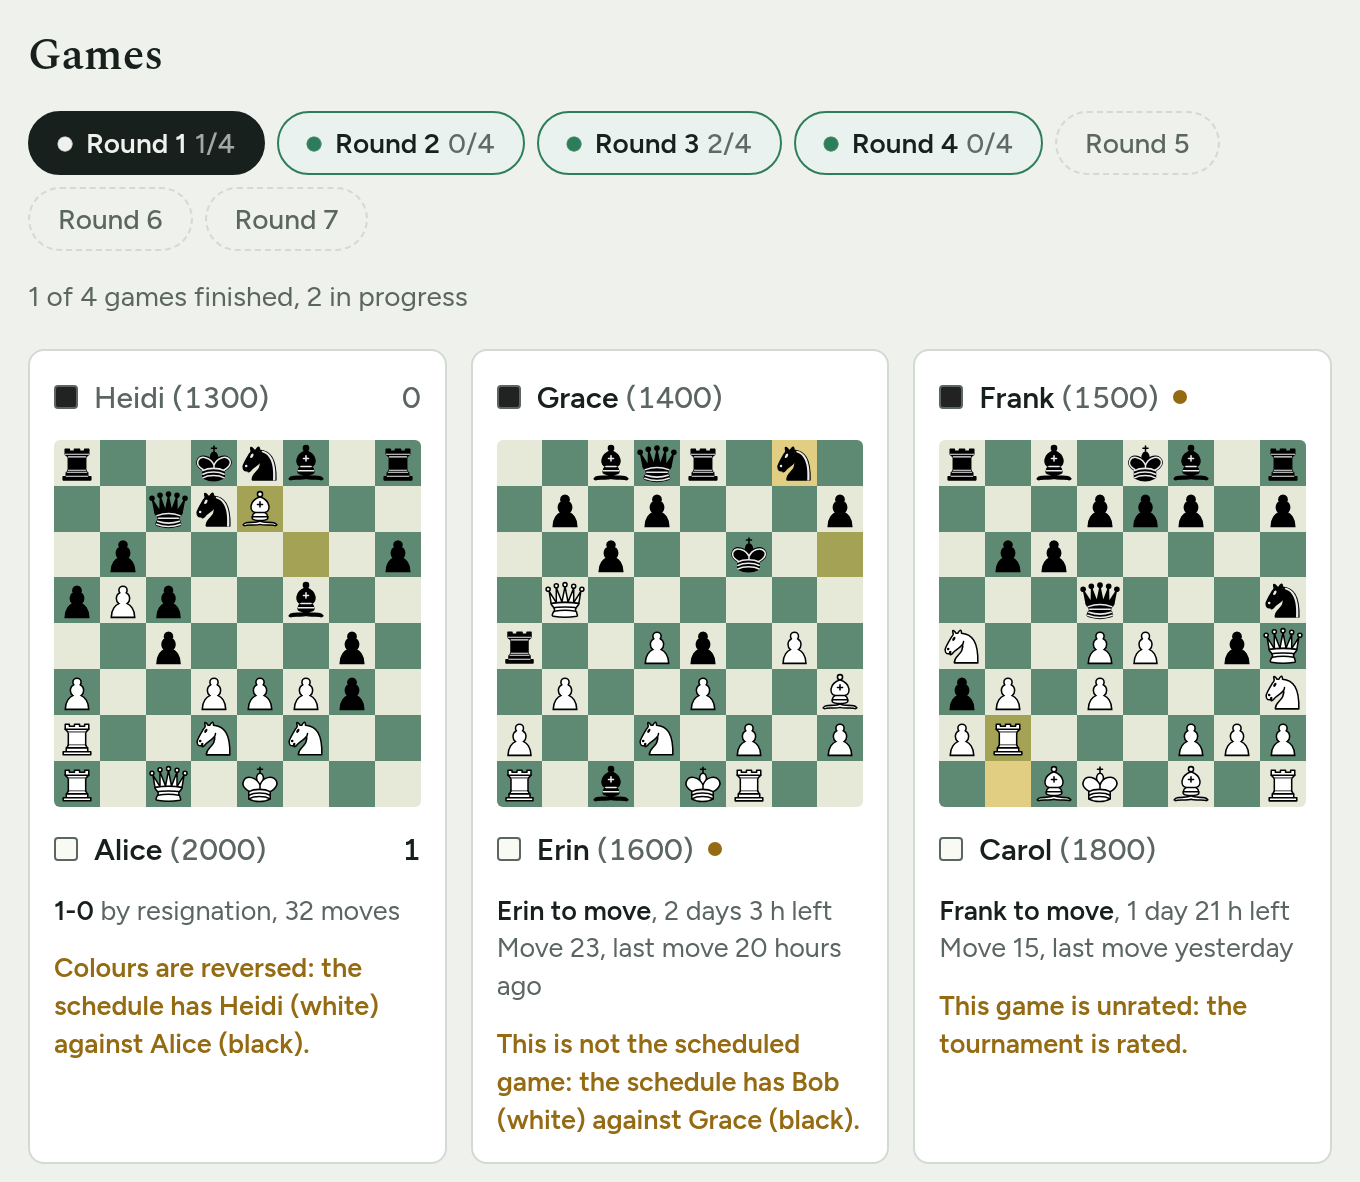
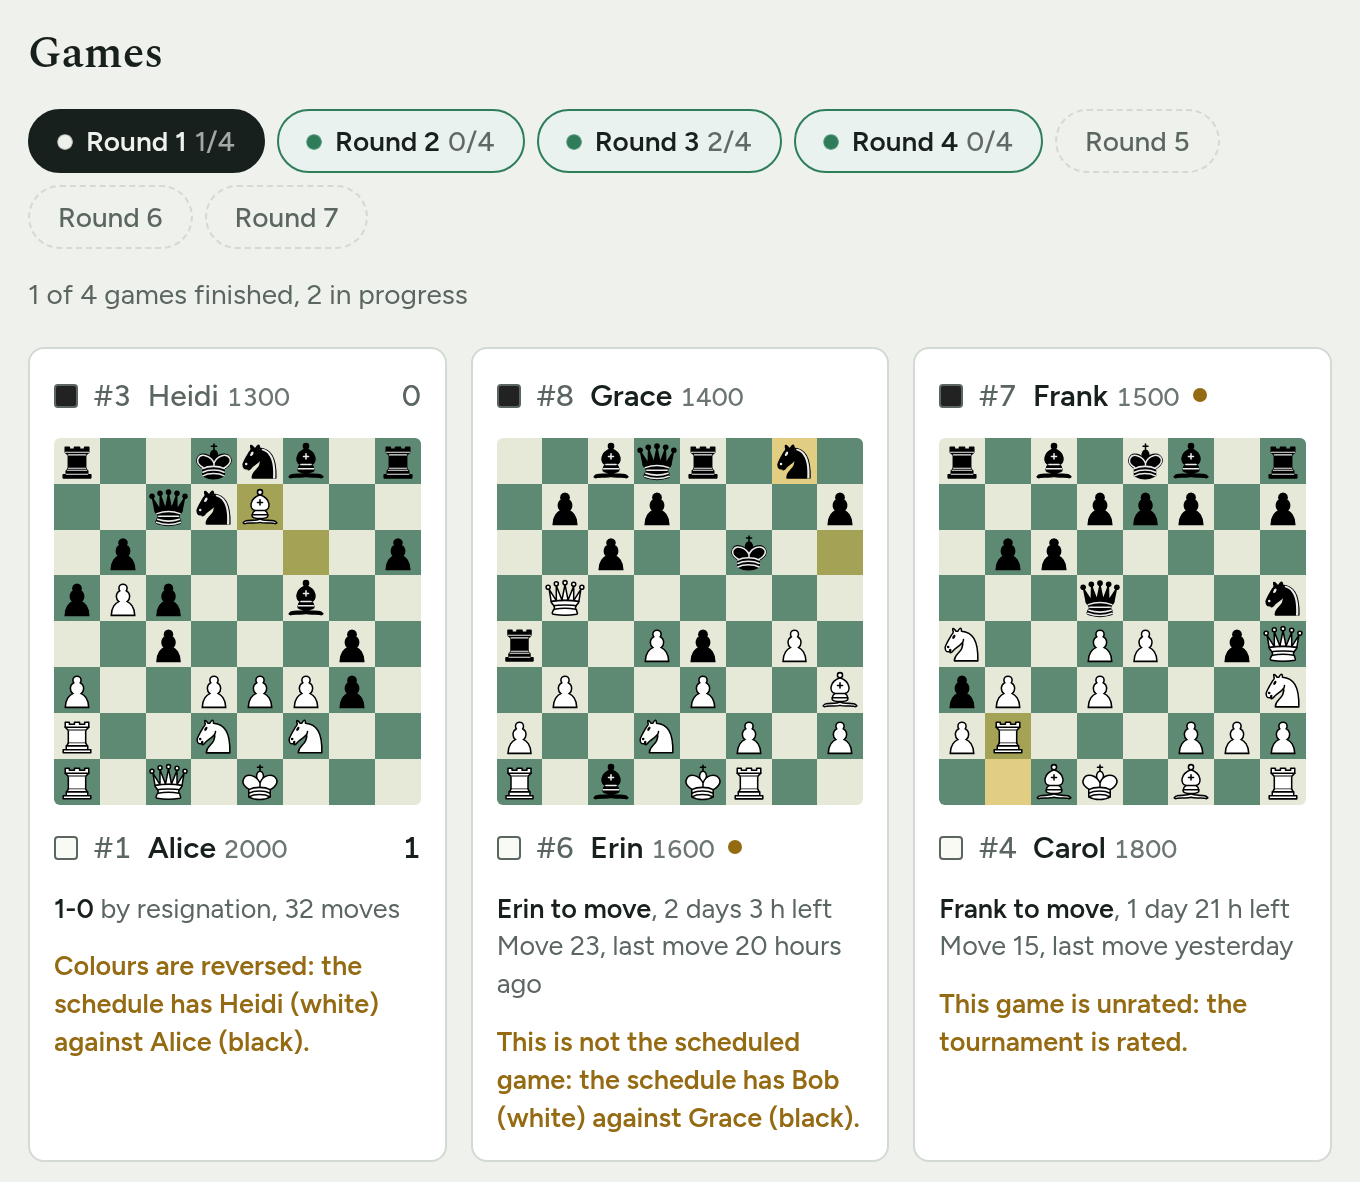
Retake the README's screenshots
Ranks next to the names, ratings without brackets, and the subtitle built
from the settings. The standings are now 920px wide, so the title and the
subtitle fit on one line each.

diff --git a/tools/screenshots.py b/tools/screenshots.py
@@ -4,15 +4,16 @@
     python3 tools/screenshots.py
 
 - screenshots/standings.png: the top of the halfway demo, title to the end
-  of the crosstable, 760px wide. The demo's title becomes "Club
+  of the crosstable, 920px wide. The demo's title becomes "Club
   Correspondence League" so it doesn't read "Demo: halfway".
 - screenshots/games.png: round 1 of the problems demo, from the Games
   heading to the end of the first row of cards, 680px wide, for the
   warnings under each board.
 
 Both are taken at twice the pixel density and shown 640px wide in the
-README. The widths are the narrowest at which all the crosstable's columns
-show, and three cards fit in a row, so the text stays readable at that size.
+README. The standings are the narrowest at which the title and the subtitle
+each fit on one line. The games are narrower, with three cards in a row:
+four need 1080px, and their warnings would be too small to read at 640px.
 
 It needs google-chrome (or CHROME pointing to another Chrome) and
 ImageMagick, and uses optipng if it's there. The pages come from
@@ -29,6 +30,8 @@ OUT = ROOT / "screenshots"
 CHROME = os.environ.get("CHROME", "google-chrome")
 SCALE = 2
 TITLE = "Club Correspondence League"
+STANDINGS_WIDTH = 920
+GAMES_WIDTH = 680
 
 # Where things are on the page once the games have loaded, in CSS pixels
 # from the top of the page.
@@ -94,13 +97,13 @@ def main():
         try:
             OUT.mkdir(exist_ok=True)
             url = f"{base}/halfway/index.html"
-            m = measure(url, 760)
+            m = measure(url, STANDINGS_WIDTH)
             # From the top of the page to just below the table, before its legend.
-            shoot(url, 760, 0, round(m["cross"][1]) + 8, OUT / "standings.png", tmp)
+            shoot(url, STANDINGS_WIDTH, 0, round(m["cross"][1]) + 8, OUT / "standings.png", tmp)
             url = f"{base}/problems/index.html"
-            m = measure(url, 680)
+            m = measure(url, GAMES_WIDTH)
             # From a little above the Games heading to just below the first row of cards.
-            shoot(url, 680, round(m["gamesH"][0]) - 14, round(m["card"][1]) + 10, OUT / "games.png", tmp)
+            shoot(url, GAMES_WIDTH, round(m["gamesH"][0]) - 14, round(m["card"][1]) + 10, OUT / "games.png", tmp)
         finally:
             server.shutdown()
 

diff --git a/HACKING.md b/HACKING.md
@@ -103,8 +103,9 @@ Retake them after a change to how either looks:
 It needs Chrome and ImageMagick, and uses optipng if it's there. It takes
 the pages from `demo/serve.py --out`, so a private `theme/` never shows,
 renames the halfway demo to "Club Correspondence League", and captures each
-at twice the pixel density: the standings 760px wide and the games 680px
-wide, the narrowest widths with every column, and three cards in a row. The
+at twice the pixel density: the standings 920px wide, the narrowest with
+the title and the subtitle on one line each, and the games 680px wide, with
+three cards in a row (four need 1080px, too small to read in the README). The
 crops follow the page's headings, table and cards, so they keep the same
 framing when the layout changes. Look at both before committing them.
 
